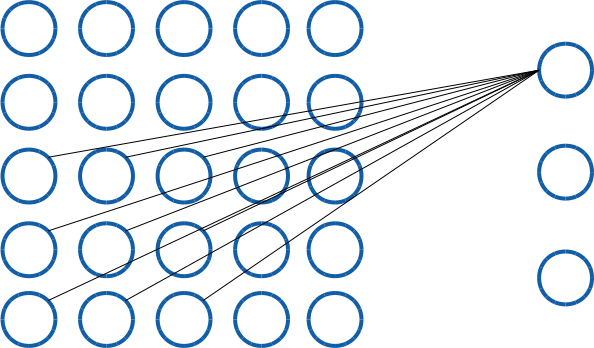
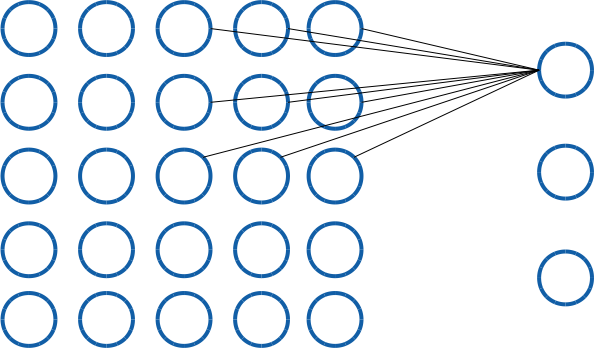
Presentation: Max pooling slide, changed slide order

diff --git a/presentation/deep_convolutional_networks_presentation.tex b/presentation/deep_convolutional_networks_presentation.tex
@@ -89,11 +89,13 @@
 				\item Convolving entire input with filter implies shared weights
 				\item Reduced amount of weights allows lots of filters
 				\item Filters specific to color channels
+				\item Max pooling integrates remote locations
 			\end{itemize}
 		\column{0.5\textwidth}
 			\includegraphics<1>[width=\textwidth]{dense_layer}
 			\includegraphics<2>[width=\textwidth]{convolutional_layer}
 			\includegraphics<3>[width=\textwidth]{color_mapping}
+			\includegraphics<4>[width=\textwidth]{max_pooling}
 	\end{columns}
 }
 %TODO pooling layers
@@ -273,6 +275,18 @@
 }
 
 \frame{
+	\frametitle{Missclassified images}
+	\begin{figure}
+		\centering
+		\includegraphics[width=0.85\textwidth]{gtsrb_mistakes/mistake_fussgaenger.png}
+		
+		\includegraphics[width=0.85\textwidth]{gtsrb_mistakes/mistake_gefahrenstelle.png}
+		
+		\includegraphics[width=0.85\textwidth]{gtsrb_mistakes/mistake_limit_unknown.png}
+	\end{figure}
+}
+
+\frame{
 	\frametitle{RELU Activation Function}
 	\begin{columns}
 		\column{0.5\textwidth}
@@ -300,18 +314,6 @@
 			\centering
 			\includegraphics[width=\textwidth]{gtsrb_results_3}
 	\end{columns}
-}
-
-\frame{
-	\frametitle{Missclassified images}
-	\begin{figure}
-		\centering
-		\includegraphics[width=0.85\textwidth]{gtsrb_mistakes/mistake_fussgaenger.png}
-		
-		\includegraphics[width=0.85\textwidth]{gtsrb_mistakes/mistake_gefahrenstelle.png}
-		
-		\includegraphics[width=0.85\textwidth]{gtsrb_mistakes/mistake_limit_unknown.png}
-	\end{figure}
 }
 
 \section{Filter Reuse}
